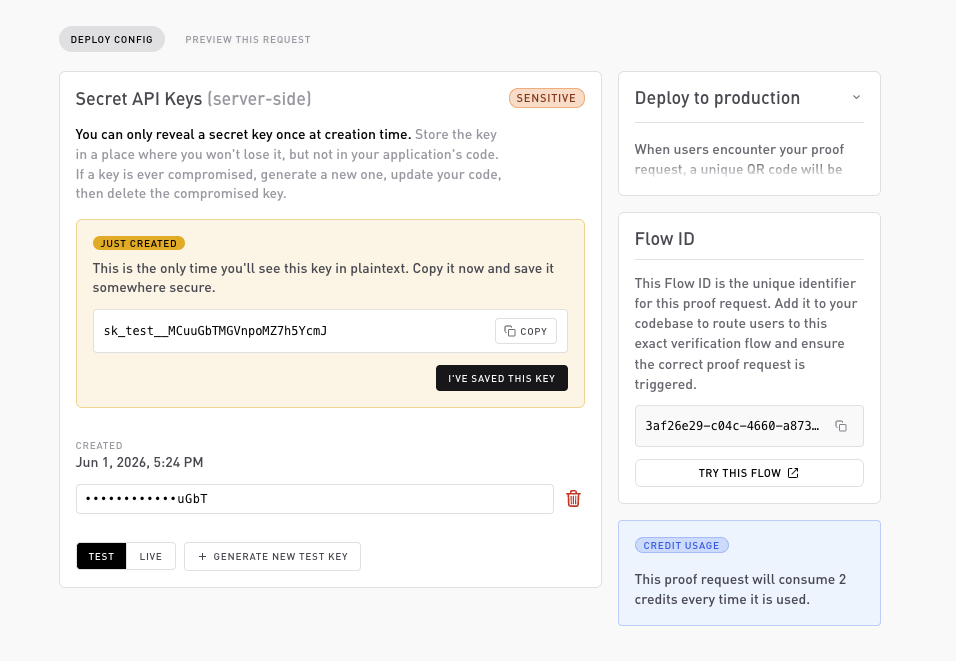
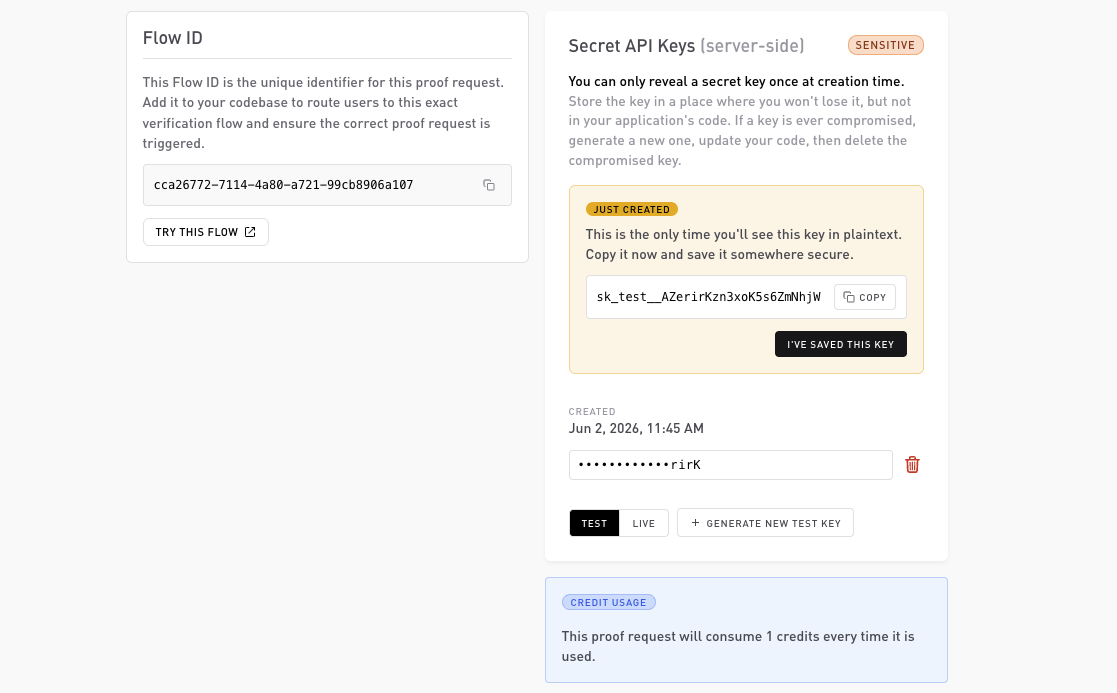
content update

diff --git a/self-enterprise/dashboard/api-keys.md b/self-enterprise/dashboard/api-keys.md
@@ -1,28 +1,30 @@
 # API keys
 
-**Settings → API keys**. One screen per environment.
+self-docs/.gitbook/assets/api-key-test.png
 
-> 📸 _**Screenshot:** API keys list in the dashboard, with a few keys shown and the **Create key** button visible._
+API keys authenticate the SDK. You generate them on a product's **Deploy** tab, in the **Secret API Keys (server-side)** card, once you've saved the configuration.
 
-## Issuing a key
+## Generating a key
 
-Click **Create key**. You'll choose:
+On the Deploy tab:
 
-* **Environment**: `test` or `live`. The choice is baked into the key prefix and the routing. Test keys can only create sessions against test flows; live keys against live flows. There's no cross-environment access.
-* **Name**: a human label (e.g. `prod-backend`, `staging`, `local-kartik`).
+1. Pick the environment, `test` or `live`. It defaults to `test`, and is locked once the key is created.
+2. Click **Generate {env} API key** and confirm.
 
-The key is shown **once**. Copy it into your secret manager (e.g. GCP Secret Manager, AWS Secrets Manager, 1Password). We never display the full key again. From then on, only the masked form (`sk_test_•••8a3f`) is visible.
+The key is **revealed once**, right after creation. Copy it immediately into your secret manager (GCP Secret Manager, AWS Secrets Manager, 1Password, and so on). Afterwards only a masked form (the last few characters) is shown, you can't retrieve the full key again.
 
-> 📸 _**Screenshot:** The "key created" modal, showing the full key once with a Copy button._
+{% hint style="info" %}
+Save the configuration first, the card stays empty until there's a config to attach keys to.
+{% endhint %}
 
 ## Key shape
 
 ```
-sk_test_<22-char-base62>
-sk_live_<22-char-base62>
+sk_test_…
+sk_live_…
 ```
 
-The prefix is intentional and stable; treat it as part of the credential format. Detecting `sk_live_` in commits is a useful pre-push hook.
+The prefix encodes the environment and is part of the credential format. A test key only creates sessions against test configurations, a live key only against live ones, with no cross-environment access. Detecting `sk_live_` in commits is a useful pre-push hook.
 
 ## Using a key
 
@@ -34,35 +36,17 @@ import { SelfClient } from '@selfxyz/enterprise-sdk';
 const self = new SelfClient({ apiKey: process.env.SELF_API_KEY! });
 ```
 
-The SDK stores the key in memory and uses it on every call to `sessions.create(...)` and `sessions.get(...)`. See the [SDK reference](../sdk/nodejs.md).
-
-## Rotation
-
-Best practice: rotate live keys at least every 90 days, and immediately on any suspected exposure.
-
-1. **Create key** → store the new value alongside the old one.
-2. Roll the new value through your backends (typically a deploy with both `SELF_API_KEY_NEW` and `SELF_API_KEY_OLD` set, with traffic shifting).
-3. Once 100% of traffic is on the new key, **Revoke** the old one in the dashboard.
-
-Revoking is immediate. Within seconds, any request bearing the old key gets `401` (`unauthenticated`).
+The SDK uses it on every call to `sessions.create(...)` and `sessions.get(...)`. See the [SDK reference](../sdk/nodejs.md).
 
 ## Revocation
 
-You can revoke any key at any time from the list view. There's no undo. Revoked keys can't be re-issued; create a new one if needed.
-
-## Audit
-
-The keys list shows:
-
-* **Created at**: when the key was issued.
-* **Last used at**: last time we authenticated a request with it. `Never` for unused keys (a fingerprint of misconfigured deploys).
-* **Created by**: which member issued it.
+Revoke any key from the same card. There's no undo, generate a new one if needed. The card lists your existing keys by their last few characters and when they were created.
 
 ## Security notes
 
 * Don't put keys in front-end code. They authorize session creation, which costs money.
 * Don't commit keys. Use environment variables and secret managers.
-* Per-service keys, not one shared key. If a service's key leaks, you only have to rotate that one.
+* If a service's key leaks, you only have to rotate that one.
 
 ## Related
 
